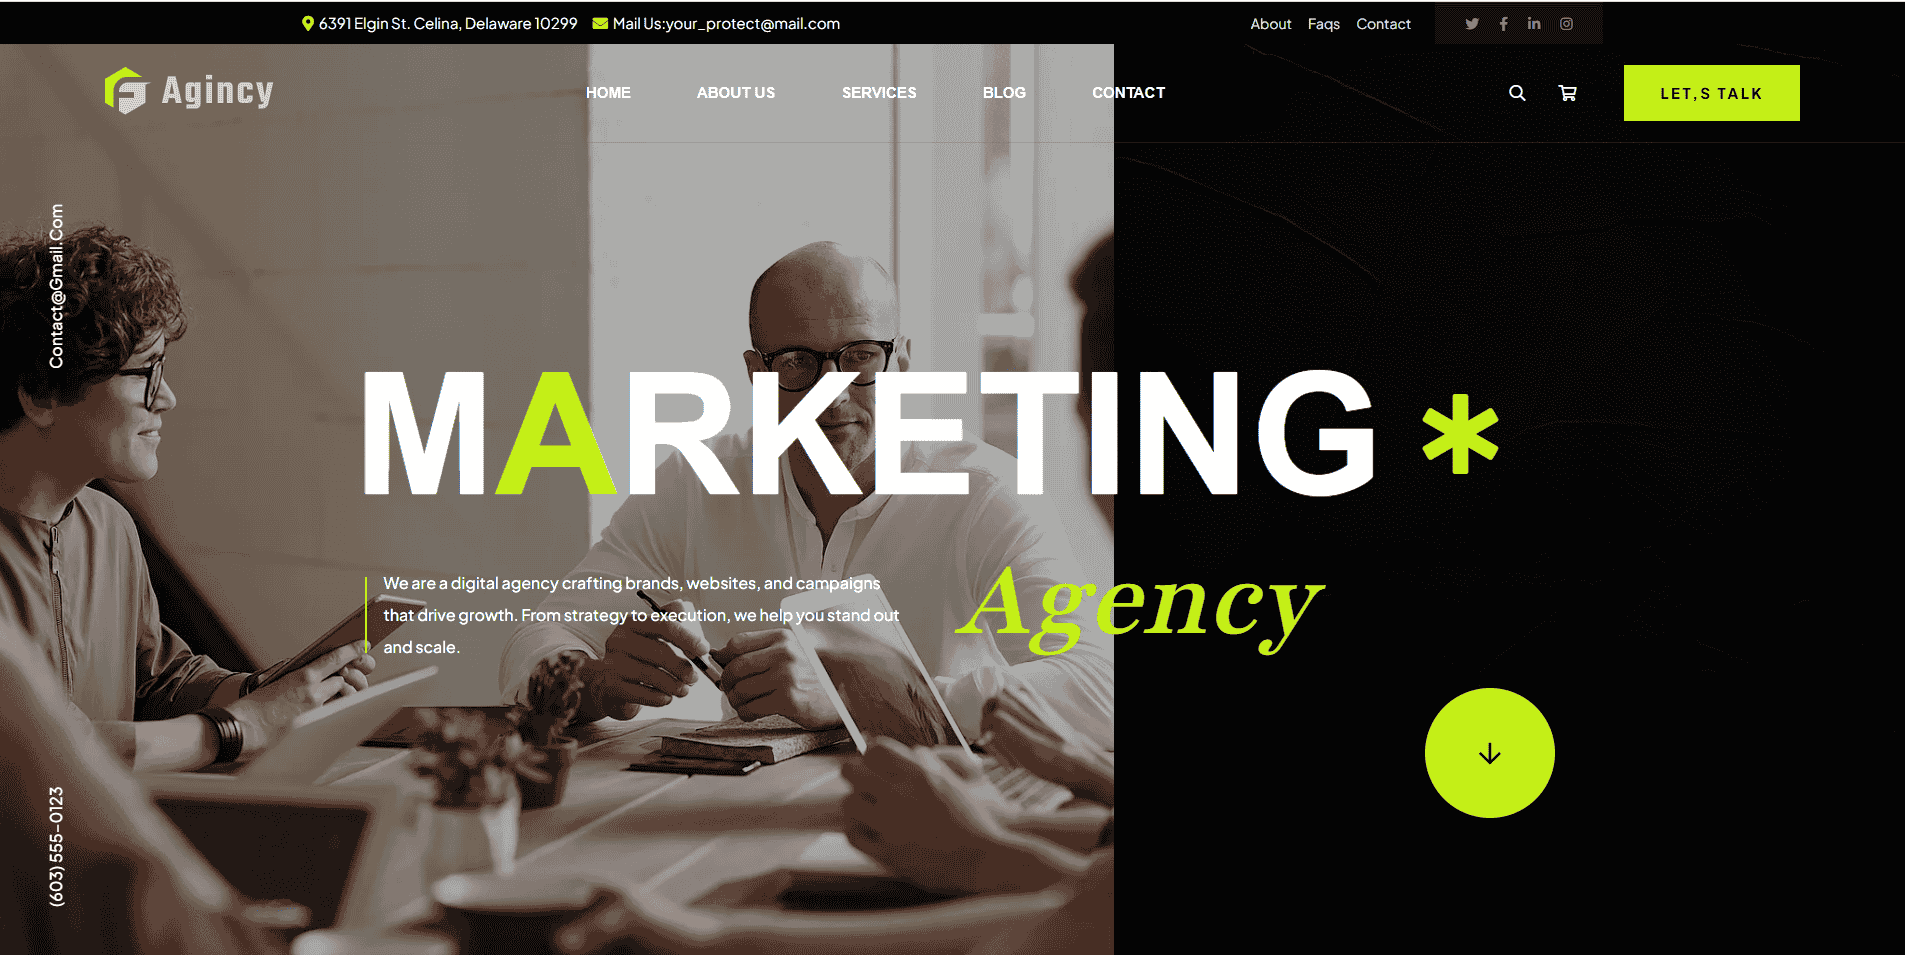
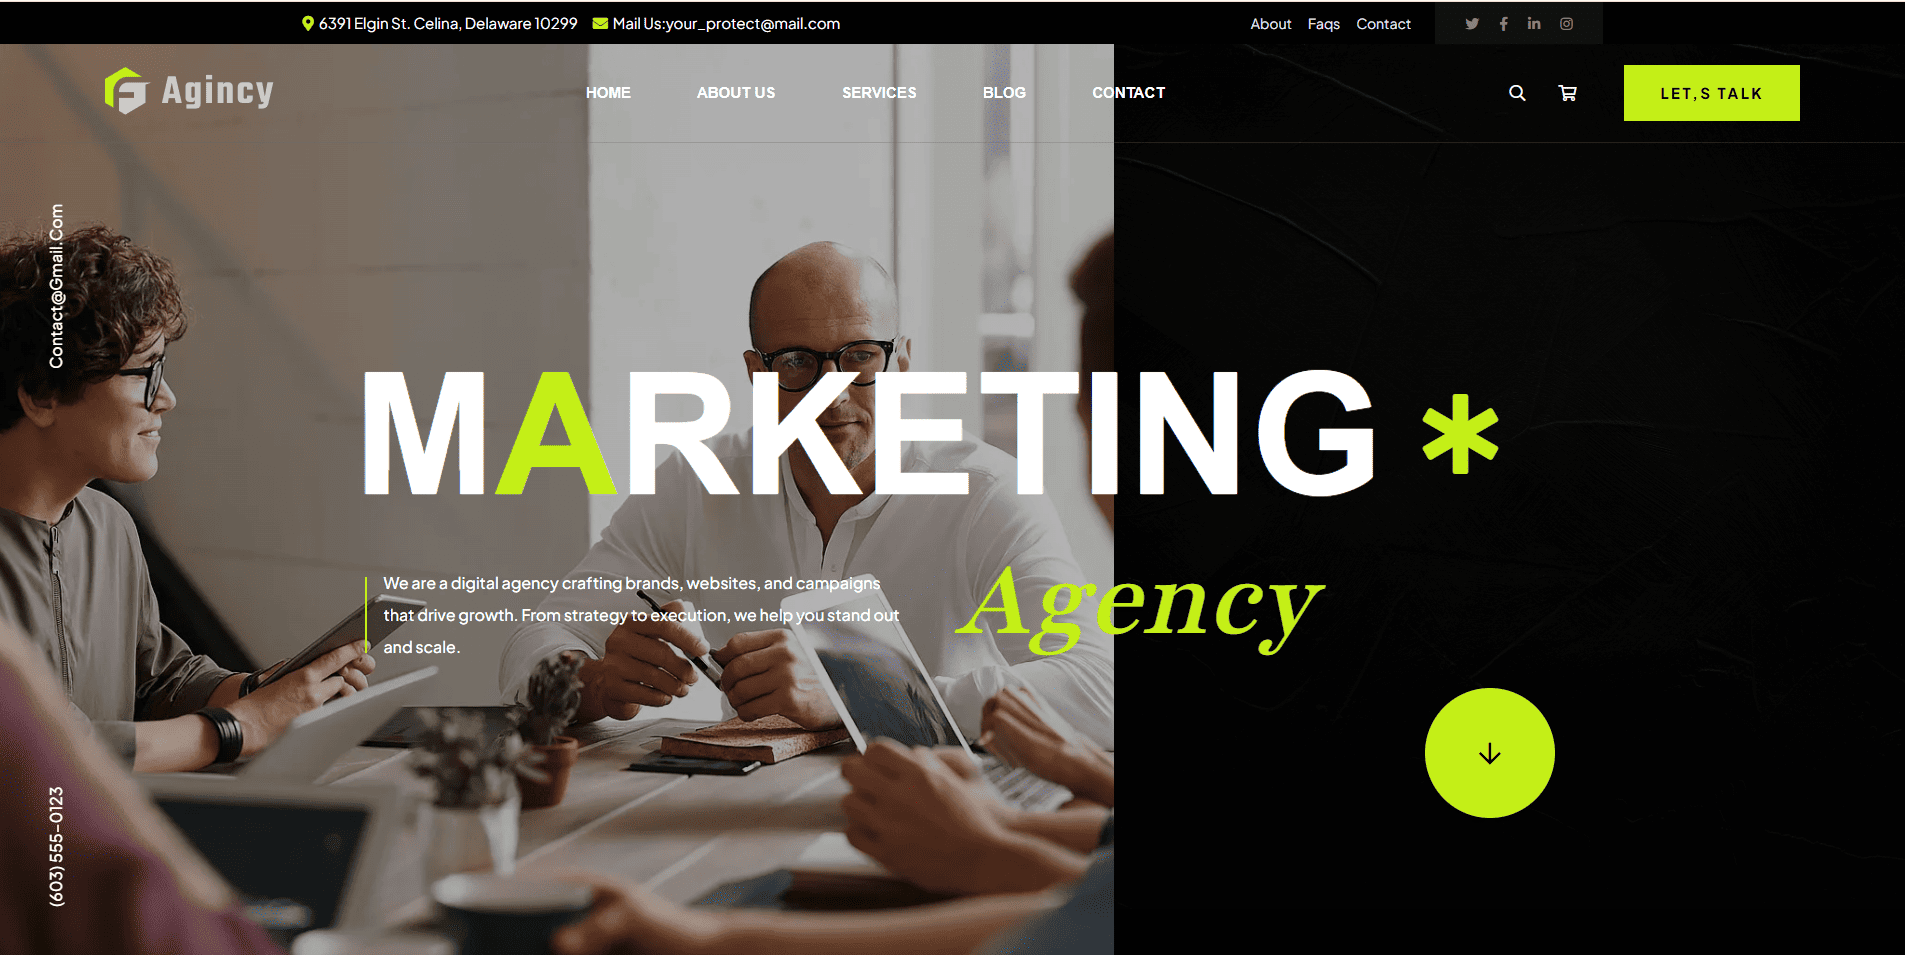
page.jsx

diff --git a/app/work/page.jsx b/app/work/page.jsx
@@ -69,7 +69,7 @@ const projects = [
     description:
       "With this project, I won first place at Feecra Expo, a creative showcase salon in Morocco. It is a social media platform that connects fresh artists and talents with restaurants and organizations. Users can showcase their skills by posting photos, videos, and performing live streams where audiences can watch and engage. The platform helps emerging performers find opportunities while enabling businesses to discover new talent for their events and services.",
     stack: [{ name: "React Js" }, { name: "Express Js" }, { name: "SQL" }, { name: "TypeScript" }, { name: "Tailwind Css" }, { name: "Web Rtc" }, { name: "Ci/CD" }, { name: "Deployment in Digital Ocean" }],
-    image: "/assets/work/thumb5.mp4",
+    image: "https://ik.imagekit.io/wmchxlegw/thumb5.mp4?updatedAt=1757534735942",
     live: "",
     github: "https://github.com/mr1assou/aurax",
   },
